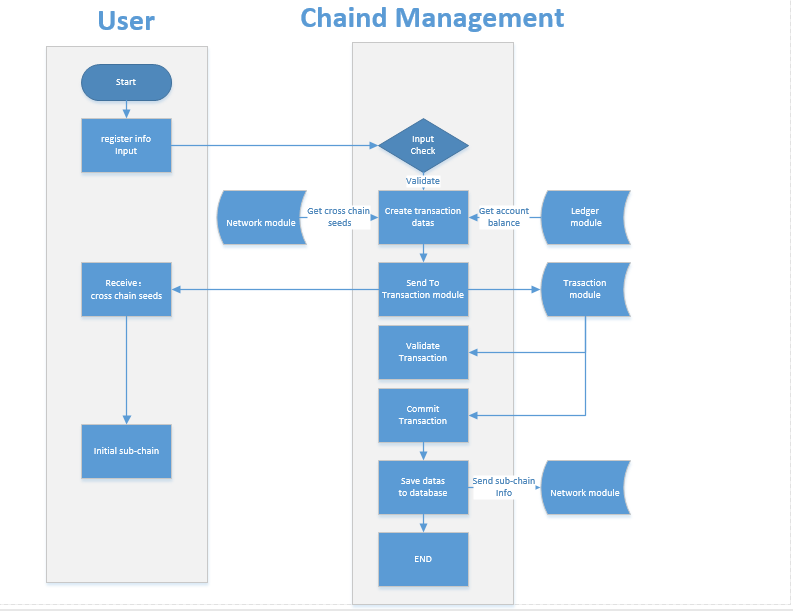
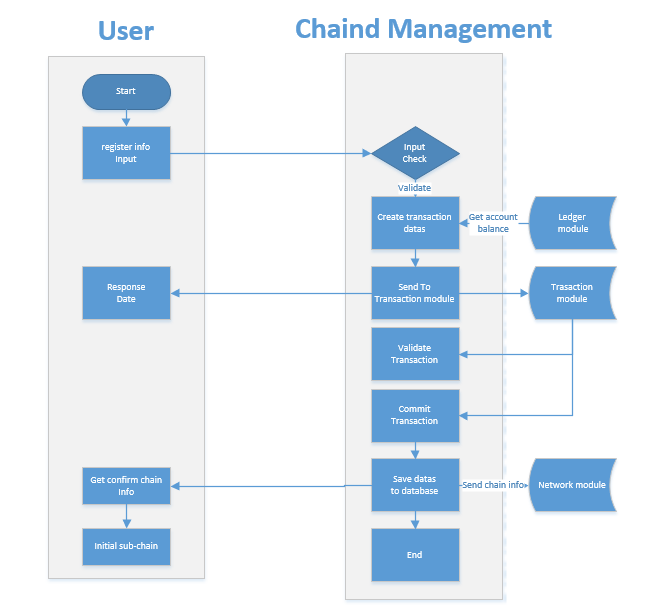
modify rpc design

Changed region(s): [[0.0607, 0.0, 0.9408, 0.9951], [0.3642, 0.0, 0.8498, 0.0933]]

diff --git a/design-zh-CHS/y.链管理模块设计v1.3.md b/design-zh-CHS/y.链管理模块设计v1.3.md
@@ -119,7 +119,7 @@
 
    2.链管理模块进行链交易的封装发送给交易模块。期间需要通过账本模块获取账户余额及交易nonce值。
 
-      并且通过网络模块获取跨链的种子节点信息 返回给用户。
+      发送交易后返回成功或失败信息给用户。
 
    3.交易模块会在交易处理过程中进行数据校验的回调。
 
@@ -191,9 +191,7 @@
      Success
 
      ```
-     {
-     "seeds":"xxx.xxx.xxx.xxx:8001,xxx.xxx.xxx.xxx:8002"
-     }
+     统一RPC标准格式
      
      ```
 
@@ -697,7 +695,8 @@
             "regTxHash":"FFFFF", 
             "selfAssetKeyList":["1232_32","528_8"],
             "totalAssetKeyList":["1232_32","528_8"],
-            "createTime":1212131
+            "createTime":1212131,
+            "seeds":"xxx.xxx.xxx.xxx:8001,xxx.xxx.xxx.xxx:8002"
     }
     ```
 
@@ -717,6 +716,7 @@
   | selfAssetKeyList        | list   | 链下注册的资产列表，由chainId_assetId 组合的资产key值 |
   | totalAssetKeyList       | list   | 链下流通的资产列表，由chainId_assetId 组合的资产key值 |
   | createTime              | long   | 创建时间                                              |
+  | seeds                   | String | cross Seed node                                       |
 
 
 - 依赖服务
